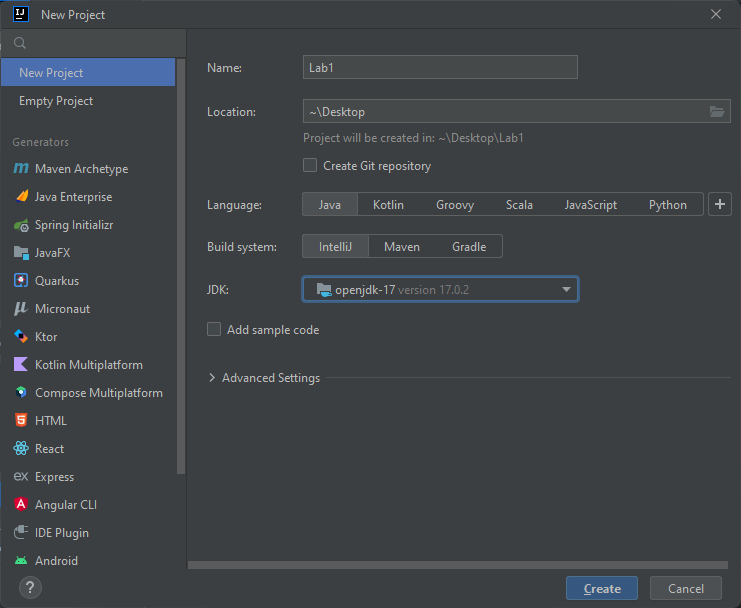
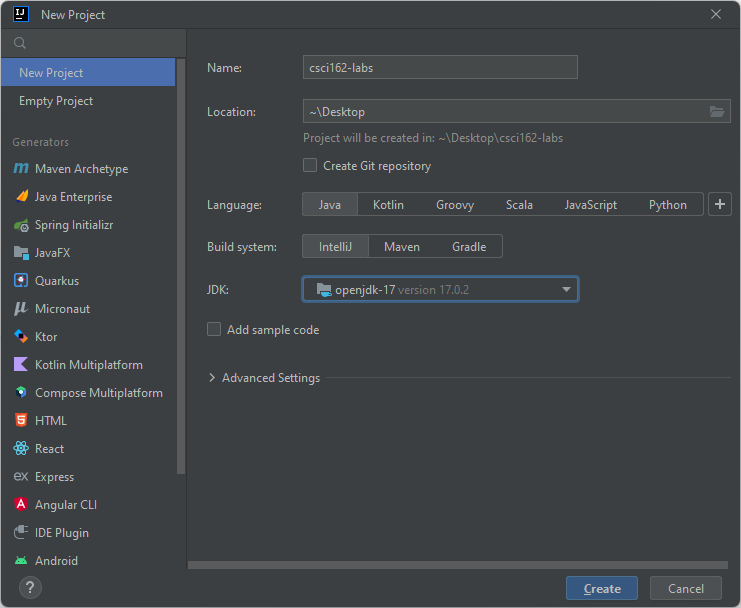
make images more readable

diff --git a/src/site/labs/hello-world/hello-world.rst b/src/site/labs/hello-world/hello-world.rst
@@ -30,8 +30,9 @@ Creating a Project
             :width: 500 px
             :align: center
 
-            New project screen with appropriate settings selected. This figures shows the project named "Lab1" being
-            created and saved to the desktop, but it is recommended to save the project to a more fitting location.
+            New project screen with appropriate settings selected. This figures shows the project named "csci162-labs"
+            being created and saved to the desktop, but it is recommended to save the project to a more fitting
+            location.
 
 
     * After selecting "Create", something like the following figure should be displayed
@@ -40,7 +41,7 @@ Creating a Project
             :width: 600 px
             :align: center
 
-            IntelliJ displaying the contents of a new project called "Lab1".
+            IntelliJ displaying the contents of a new project called "csci162-labs".
 
 
 #. Add a Java class to the project
@@ -50,7 +51,6 @@ Creating a Project
     * Give the class a name, something like *Lab1*
 
         * By convention, **always start your class names with an uppercase letter**
-        * It is not required that the class name and the project name match
 
 
 #. Add a ``main`` method to the class and have it run ``Hello, world!``
@@ -69,9 +69,7 @@ Creating a Project
     * Select *Run -> Run*
 
         * One may have to select the class you want to run
-
-
-    * Alternatively, select the green play triangle next to the main method by the line numbers
+        * Alternatively, select the green play triangle next to the main method by the line numbers
 
         .. figure:: hello_world_project.png
             :width: 600 px
